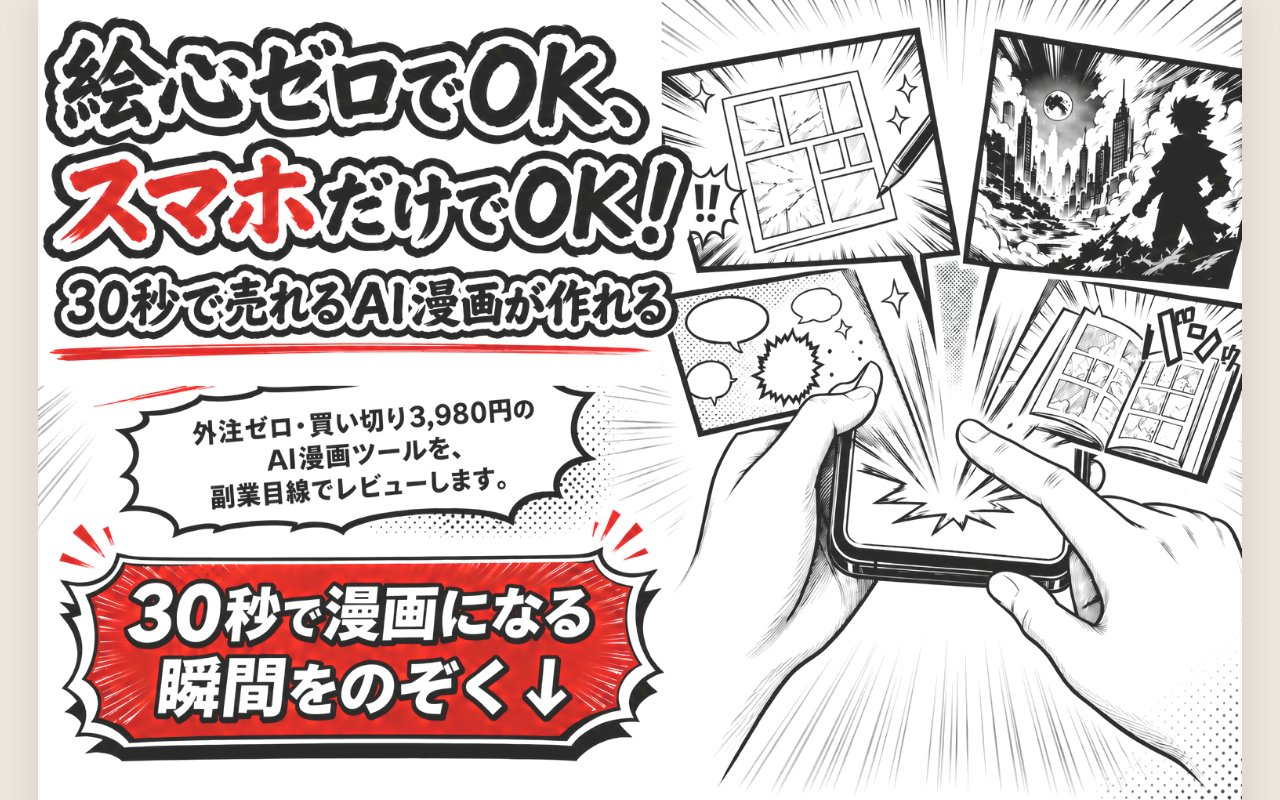
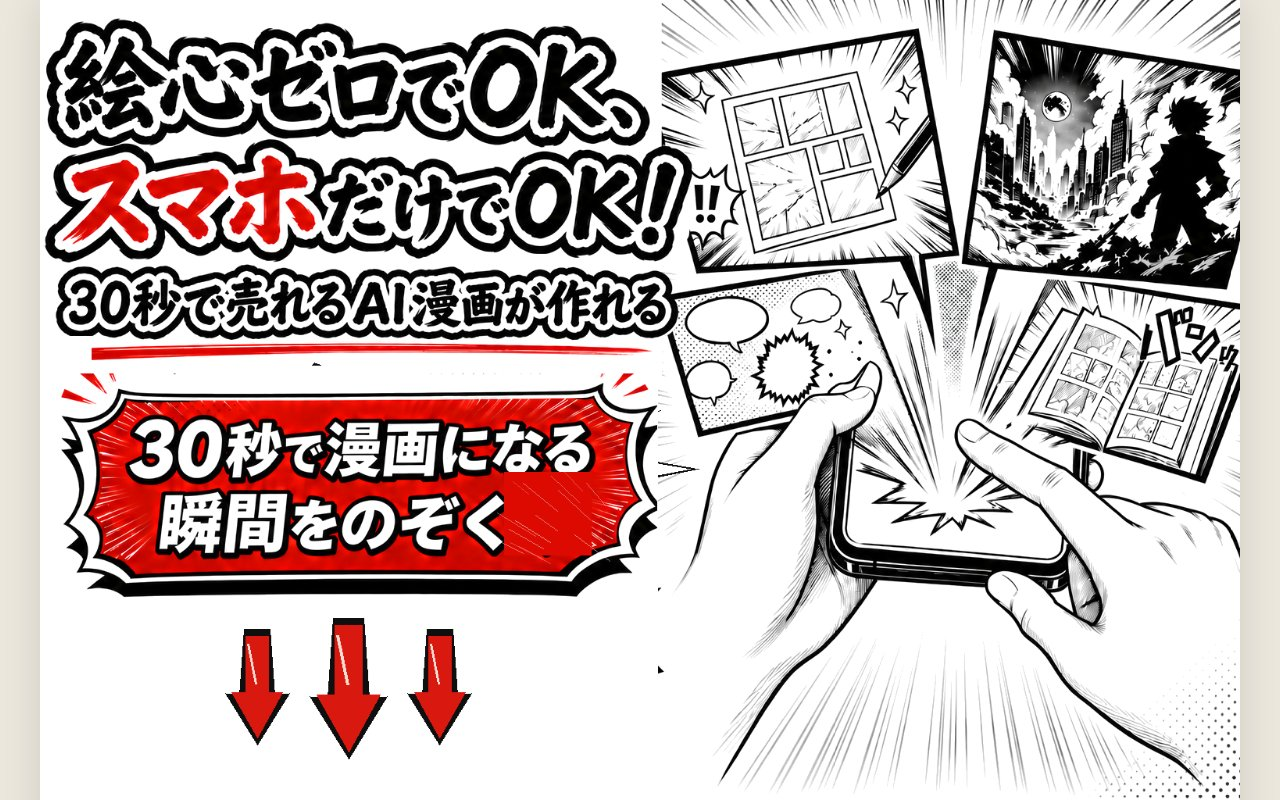
ポートフォリオギャラリーにAI漫画クリエイターLPのB案を追加
- gallery/data.js: A案のURLを独自ドメイン(best.kigyouka-best-members.com)に変更し、B案の新規エントリを追加
- gallery/assets/thumbnails/ai-manga-creator-lp.jpg: A案の最新サムネイルに更新
- gallery/assets/thumbnails/ai-manga-creator-lp-b.jpg: B案のサムネイルを新規追加

これでポートフォリオギャラリーでA案とB案を見分けやすくなる

diff --git a/gallery/data.js b/gallery/data.js
@@ -475,8 +475,8 @@ window.PORTFOLIO_GALLERY_DATA = [
   {
     "slug": "compass-consulting-school-lp",
     "type": "lp",
-    "title": "AI漫画クリエイター アフィリエイトLP",
-    "heading": "絵心ゼロでOK、スマホだけでOK！AIで「漫画が作れる人」になる",
+    "title": "AI漫画クリエイター アフィリエイトLP（A案）",
+    "heading": "絵心ゼロでOK、スマホだけでOK！30秒で売れるAI漫画が作れる",
     "category": "IT・ツール",
     "moodTags": [
       "ポップ",
@@ -489,7 +489,7 @@ window.PORTFOLIO_GALLERY_DATA = [
     ],
     "featureTags": [],
     "linkType": "external",
-    "url": "https://utage-system.com/p/714WtLeEZYXJ",
+    "url": "https://best.kigyouka-best-members.com/page/GOzx4btSZzap?v=a",
     "thumbnail": "assets/thumbnails/ai-manga-creator-lp.jpg"
   },
   {
@@ -581,5 +581,25 @@ window.PORTFOLIO_GALLERY_DATA = [
     "linkType": "image",
     "url": "assets/portfolio/banner/mizuha-lab-moisture-gel-banner.png",
     "thumbnail": "assets/thumbnails/mizuha-lab-moisture-gel-banner.jpg"
+  },
+  {
+    "slug": "ai-manga-creator-lp-b",
+    "type": "lp",
+    "title": "AI漫画クリエイター アフィリエイトLP（B案）",
+    "heading": "絵心ゼロ・スマホだけで30秒、漫画づくりならAI漫画クリエイターにお任せください！",
+    "category": "IT・ツール",
+    "moodTags": [
+      "ポップ",
+      "カッコイイ"
+    ],
+    "productTags": [
+      "IT",
+      "AI",
+      "アフィリエイト"
+    ],
+    "featureTags": [],
+    "linkType": "external",
+    "url": "https://best.kigyouka-best-members.com/page/qXOTp9mifwDG?v=b",
+    "thumbnail": "assets/thumbnails/ai-manga-creator-lp-b.jpg"
   }
 ];
